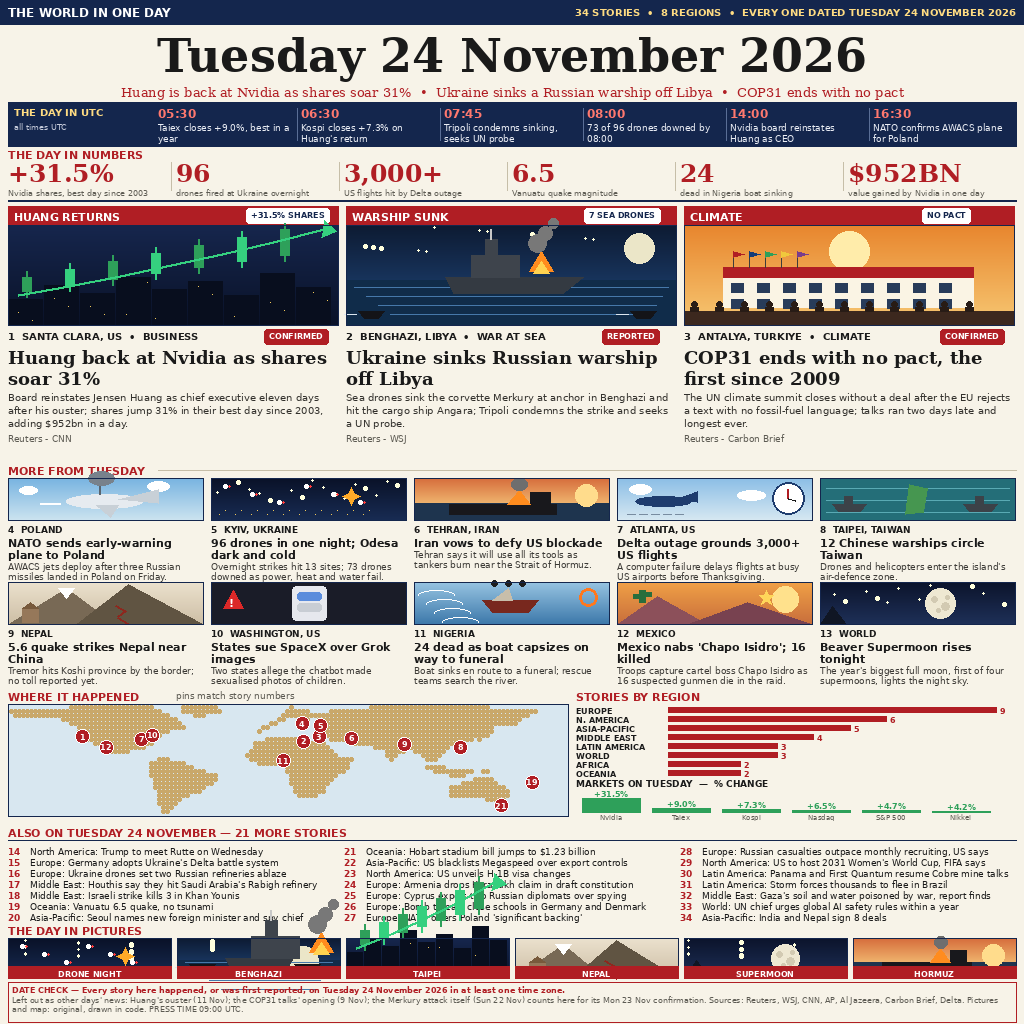
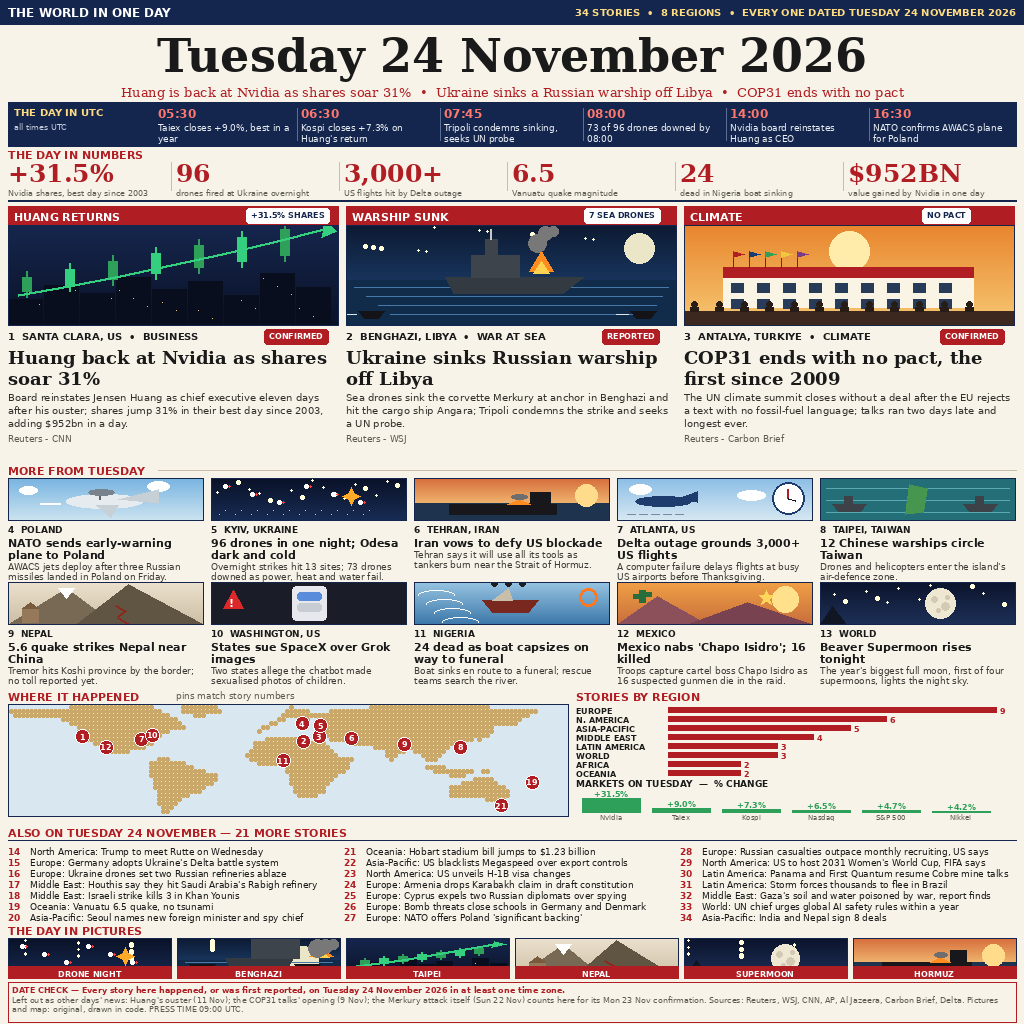
Fix chart spilling onto ALSO ON list items 24-27
scene_market's rising line and candlesticks reached 56 px above their
40 px pictures-strip box, crossing ALSO ON items 24-27; scene_warship's
smoke did the same over items 19-20. The old layout validator checked
text-on-text only, so it passed every gate.

- Scenes now render onto a layer the exact size of their box and are
  pasted, so no scene element can ever paint outside its box.
- scene_market / scene_warship / scene_awacs / scene_hormuz verticals
  scale with box height (exact at h=100, contained at h=40/42), so the
  TAIPEI mini-chart now draws complete inside its box instead of
  being chopped.
- Layout validator gains a text-vs-graphics check: every text box must
  clear all 34 graphic boxes (map, 19 scene boxes, 8 region bars,
  6 market bars); 3 intentional overlays exempted and logged.
  GRAPHICS CHECK: 0 text-on-graphic hits.

Stories, counts (34 stories, 8 regions) and template unchanged.
entry.png sha256 40ecec7a7dd7189fd9ab59b9900107bfce3fee825d007a290bd1b6a669d25ded
(determinism: main.ts run twice, byte-identical).

diff --git a/draw_news24.py b/draw_news24.py
@@ -9,6 +9,14 @@ two runs write byte-identical PNGs.
 
 After drawing, this script runs density_check.py (same directory) and exits
 non-zero if any gate fails, so a render without a counter run is impossible.
+
+FIX 24 Nov 2026 ~21:30 WIB (layout defect): every pictorial scene is now
+rendered onto a layer the exact size of its box and pasted, and each scene's
+verticals scale with its box height, so no scene element can spill onto
+list text (scene_market's line/candles had reached 56 px above their 40 px
+pictures-strip box, over ALSO ON items 24-27; scene_warship's smoke did the
+same over items 19-20). The layout validator now also checks text against
+every graphic box, not just text against text.
 """
 import json
 import subprocess
@@ -213,10 +221,16 @@ def stars(d, box, n, seed=7):
 
 
 def scene_market(d, x, y, w, h):
+    # Vertical offsets scale with the box height (k = h/100): at h=100 the
+    # drawing is byte-identical to the original; at h=40 (pictures strip)
+    # the skyline, candles and rising line shrink to fit INSIDE the box
+    # instead of spilling up to 56 px above it onto the ALSO ON list.
+    k = h / 100.0
     grad(d, (x, y, x + w, y + h), (22, 38, 77), (10, 18, 40))
     # skyline
     bx = x
     for i, bh in enumerate([26, 40, 32, 48, 36, 44, 30, 52, 38]):
+        bh = int(bh * k)
         bw = w // 9
         d.rectangle([bx, y + h - bh, bx + bw - 2, y + h], fill=(8, 14, 30))
         for wy in range(y + h - bh + 5, y + h - 4, 8):
@@ -228,17 +242,20 @@ def scene_market(d, x, y, w, h):
     n = 7
     for i in range(n):
         cx = x + 14 + i * ((w - 28) // n)
-        base = y + h - 34 - i * 6
-        top = base - 14 - i * 2
+        base = y + h - int(34 * k) - i * int(6 * k)
+        top = base - int(14 * k) - i * int(2 * k)
         col = GREEN if i % 2 == 0 else BRGREEN
         d.rectangle([cx, top, cx + 9, base], fill=col)
-        d.line([(cx + 4, top - 6), (cx + 4, base + 6)], fill=col, width=2)
+        d.line([(cx + 4, top - int(6 * k)), (cx + 4, base + int(6 * k))],
+               fill=col, width=2)
     # rising line + arrow
-    pts = [(x + 10 + i * ((w - 20) // 6), y + h - 30 - i * 9 - (i * i) // 3)
+    pts = [(x + 10 + i * ((w - 20) // 6),
+            y + h - int(30 * k) - i * int(9 * k) - int(((i * i) // 3) * k))
            for i in range(7)]
     d.line(pts, fill=BRGREEN, width=3, joint="curve")
     ex, ey = pts[-1]
-    d.polygon([(ex, ey - 9), (ex + 12, ey + 2), (ex - 2, ey + 8)], fill=BRGREEN)
+    d.polygon([(ex, ey - int(9 * k)), (ex + 12, ey + int(2 * k)),
+               (ex - 2, ey + int(8 * k))], fill=BRGREEN)
 
 
 def scene_warship(d, x, y, w, h):
@@ -258,14 +275,23 @@ def scene_warship(d, x, y, w, h):
     d.rectangle([hx + 26, hy - 22, hx + 74, hy], fill=(62, 68, 76))
     d.rectangle([hx + 40, hy - 38, hx + 52, hy - 22], fill=(62, 68, 76))
     d.line([(hx + 46, hy - 38), (hx + 46, hy - 48)], fill=(200, 200, 200), width=2)
-    # fire + smoke
-    d.polygon([(hx + 84, hy - 6), (hx + 96, hy - 26), (hx + 108, hy - 6)],
+    # fire + smoke (rise scaled to the box height, clamped inside it:
+    # at h=40 the unscaled smoke reached 39 px above the box, over the
+    # ALSO ON list; at h=100 the scaling is exact, only the clamp moves
+    # the third puff fully inside the lead image instead of over the
+    # red kicker bar above it)
+    k = h / 100.0
+    d.polygon([(hx + 84, hy - int(6 * k)), (hx + 96, hy - int(26 * k)),
+               (hx + 108, hy - int(6 * k))],
               fill=(255, 140, 30))
-    d.polygon([(hx + 88, hy - 4), (hx + 96, hy - 16), (hx + 104, hy - 4)],
+    d.polygon([(hx + 88, hy - int(4 * k)), (hx + 96, hy - int(16 * k)),
+               (hx + 104, hy - int(4 * k))],
               fill=(255, 210, 80))
     for i, r in enumerate([9, 7, 5]):
-        d.ellipse([hx + 92 + i * 8 - r, hy - 34 - i * 10 - r,
-                   hx + 92 + i * 8 + r, hy - 34 - i * 10 + r],
+        cy = hy - int(34 * k) - i * int(10 * k)
+        cy = max(cy, y + r + 1)
+        d.ellipse([hx + 92 + i * 8 - r, cy - r,
+                   hx + 92 + i * 8 + r, cy + r],
                   fill=(120, 120, 120))
     # drone boats with wakes
     for dx in (x + 12, x + w - 46):
@@ -315,8 +341,13 @@ def scene_awacs(d, x, y, w, h):
               fill=(200, 208, 215))
     d.polygon([(px + 30, py + 4), (px + 44, py + 16), (px + 52, py + 4)],
               fill=(200, 208, 215))
-    d.line([(px + 34, py - 7), (px + 34, py - 20)], fill=(90, 100, 110), width=2)
-    d.ellipse([px + 22, py - 30, px + 48, py - 16], fill=(120, 130, 140))
+    # radar dome + antenna (scaled to the box height: unscaled, the dome
+    # reached 7 px above the 42 px mid-story box, over the section rule)
+    k = h / 100.0
+    d.line([(px + 34, py - int(7 * k)), (px + 34, py - int(20 * k))],
+           fill=(90, 100, 110), width=2)
+    d.ellipse([px + 22, py - int(30 * k), px + 48, py - int(16 * k)],
+              fill=(120, 130, 140))
     d.line([(px - 26, py + 2), (px - 6, py + 2)], fill=(255, 255, 255), width=2)
 
 
@@ -346,9 +377,13 @@ def scene_hormuz(d, x, y, w, h):
     d.rectangle([tx, ty, tx + int(w * 0.55), ty + 10], fill=(24, 24, 28))
     d.rectangle([tx + int(w * 0.42), ty - 12, tx + int(w * 0.52), ty],
                 fill=(24, 24, 28))
-    d.polygon([(tx + int(w * 0.30), ty), (tx + int(w * 0.36), ty - 14),
+    # tanker + flame + smoke (flame/smoke rise scaled to the box height:
+    # unscaled, the smoke reached 2 px above the 40 px pictures box)
+    k = h / 100.0
+    d.polygon([(tx + int(w * 0.30), ty), (tx + int(w * 0.36), ty - int(14 * k)),
                (tx + int(w * 0.42), ty)], fill=(255, 140, 30))
-    d.ellipse([tx + int(w * 0.32), ty - 26, tx + int(w * 0.40), ty - 14],
+    d.ellipse([tx + int(w * 0.32), ty - int(26 * k),
+               tx + int(w * 0.40), ty - int(14 * k)],
               fill=(110, 110, 110))
 
 
@@ -469,6 +504,35 @@ SCENES = {"market": scene_market, "warship": scene_warship, "cop31": scene_cop31
           "grok": scene_grok, "boat": scene_boat, "mexico": scene_mexico,
           "moon": scene_moon}
 
+# ---------------------------------------------------------------- graphics registry
+# GRAPHICS holds (x0, y0, x1, y1, label) for every chart/graphic element's
+# box, so the layout validator can check text-vs-graphics overlap (NI24 v3
+# fix: the old validator only checked text-on-text and missed a chart
+# spilling onto the ALSO ON list).
+GRAPHICS = []
+
+
+def draw_scene(d, img, name, x, y, w, h):
+    """Draw one pictorial scene clipped to its own box.
+
+    The scene is rendered onto a throwaway layer the exact size of its box
+    and pasted, so no scene element can ever paint outside its box. The
+    NI24 v3 defect was exactly this: scene_market's rising line and
+    candlesticks reached 56 px above their 40 px pictures-strip box and
+    crossed ALSO ON items 24-27; scene_warship's smoke did the same over
+    items 19-20. Text drawn by a scene (scene_grok's "!") is re-based
+    into main-image coordinates so the validator still sees it.
+    """
+    layer = Image.new("RGB", (w, h), PAPER)
+    ld = ImageDraw.Draw(layer)
+    before = len(RECTS)
+    SCENES[name](ld, 0, 0, w, h)
+    for i in range(before, len(RECTS)):
+        a, b, c, e, s = RECTS[i]
+        RECTS[i] = (a + x, b + y, c + x, e + y, s)
+    img.paste(layer, (x, y))
+    GRAPHICS.append((x, y, x + w, y + h, f"scene:{name}"))
+
 # ---------------------------------------------------------------- map
 # Rough continent outlines in lon/lat, drawn as a dotted land mask.
 CONTINENTS = [
@@ -578,7 +642,7 @@ def build():
         T(d, x + 6, y + 4, L["kicker"], F(SANSB, 11), (255, 255, 255))
         chip(d, x + colw - 92, y + 2, L["chip"], (SANSB, 8), NAVY, (255, 255, 255))
         by = y + 19
-        SCENES[L["scene"]](d, x, by, colw, 100)
+        draw_scene(d, img, L["scene"], x, by, colw, 100)
         d.rectangle([x, by, x + colw, by + 100], outline=NAVY, width=1)
         ly = by + 100 + 5
         T(d, x, ly, f"{L['n']}  {L['place']}  •  {L['beat']}", F(SANSB, 10), INK)
@@ -596,7 +660,7 @@ def build():
         r, c = divmod(idx, 5)
         x = MX + c * (midw + 8)
         y = 478 + r * 104
-        SCENES[M["scene"]](d, x, y, midw, 42)
+        draw_scene(d, img, M["scene"], x, y, midw, 42)
         d.rectangle([x, y, x + midw, y + 42], outline=NAVY, width=1)
         T(d, x, y + 46, f"{M['n']}  {M['place']}", F(SANSB, 9), INK)
         hy = y + 58
@@ -607,6 +671,7 @@ def build():
     T(d, MX, 690, "WHERE IT HAPPENED", F(SANSB, 11), RED)
     T(d, MX + 168, 690, "pins match story numbers", F(SANS, 9), GREY)
     draw_map(d, MX, 704, 560, 112)
+    GRAPHICS.append((MX, 704, MX + 560, 816, "map"))
     d.rectangle([MX, 704, MX + 560, 816], outline=NAVY, width=1)
     rx = MX + 568
     rw = W - MX - rx
@@ -618,6 +683,7 @@ def build():
         bx0 = rx + 92
         bw = int((rw - 112) * cnt / maxc)
         d.rectangle([bx0, by + 1, bx0 + bw, by + 6], fill=RED)
+        GRAPHICS.append((bx0, by + 1, bx0 + bw, by + 6, "region-bar"))
         T(d, bx0 + bw + 4, by, str(cnt), F(SANSB, 8), RED)
     T(d, rx, 778, "MARKETS ON TUESDAY  —  % CHANGE", F(SANSB, 9), INK)
     base = 812
@@ -626,6 +692,7 @@ def build():
         bx = rx + i * bw
         bh = int(val / 31.5 * 14)
         d.rectangle([bx + 6, base - bh, bx + bw - 6, base], fill=GREEN)
+        GRAPHICS.append((bx + 6, base - bh, bx + bw - 6, base, "market-bar"))
         T(d, bx + bw // 2, base - bh - 9, f"+{val}%", F(SANSB, 8), GREEN,
           anchor="ma")
         T(d, bx + bw // 2, base + 1, name, F(SANS, 7), GREY, anchor="ma")
@@ -646,7 +713,7 @@ def build():
     for i, (scene, cap) in enumerate(PICTURES):
         x = MX + i * (pw + 6)
         y = 938
-        SCENES[scene](d, x, y, pw, 40)
+        draw_scene(d, img, scene, x, y, pw, 40)
         d.rectangle([x, y, x + pw, y + 40], outline=NAVY, width=1)
         d.rectangle([x, y + 28, x + pw, y + 40], fill=RED)
         T(d, x + pw // 2, y + 31, cap, F(SANSB, 8), (255, 255, 255), anchor="ma")
@@ -660,7 +727,10 @@ def build():
          "Left out as other days' news: Huang's ouster (11 Nov); the COP31 talks' opening (9 Nov); the Merkury attack itself (Sun 22 Nov) counts here for its Mon 23 Nov confirmation. Sources: Reuters, WSJ, CNN, AP, Al Jazeera, Carbon Brief, Delta. Pictures and map: original, drawn in code. PRESS TIME 09:00 UTC.",
          (SANS, 8), GREY, W - 2 * MX - 8, 9, 3)
 
-    # ---- layout validator: no text outside the canvas, no text-on-text
+    # ---- layout validator: no text outside the canvas, no text-on-text,
+    # and no text under any chart/graphic element (NEW in the NI24 v3 fix:
+    # the old validator only checked text-on-text, so a chart spilling
+    # onto the ALSO ON list passed every gate).
     problems = []
     for (a, b, c, e, s) in RECTS:
         if a < 0 or b < 0 or c > W or e > H:
@@ -672,12 +742,42 @@ def build():
             oy = min(a[3], b[3]) - max(a[1], b[1])
             if ox > 1 and oy > 1:
                 problems.append(f"TEXT OVERLAP {a[4]!r} <-> {b[4]!r}")
+    # text-vs-graphics: every text box must clear every graphic box.
+    # Three intentional overlays are exempt by design and logged:
+    # map pin numbers (digits drawn on the map), pictures-strip captions
+    # (white text on the red bar inside each picture), scene_grok's "!"
+    # (the warning mark inside its own scene).
+    caption_labels = {cap for _, cap in PICTURES}
+    exempt = 0
+    graphic_hits = 0
+    for (a, b, c, e, s) in RECTS:
+        for (gx0, gy0, gx1, gy1, glab) in GRAPHICS:
+            ox = min(c, gx1) - max(a, gx0)
+            oy = min(e, gy1) - max(b, gy0)
+            if ox > 1 and oy > 1:
+                if s.strip().isdigit() and glab == "map":
+                    exempt += 1
+                    continue
+                if s in caption_labels and glab.startswith("scene:"):
+                    exempt += 1
+                    continue
+                if s == "!":
+                    exempt += 1
+                    continue
+                problems.append(
+                    f"TEXT-ON-GRAPHIC {s!r} <-> {glab} {(a, b, c, e)}")
+                graphic_hits += 1
+    print(f"GRAPHICS CHECK: {len(GRAPHICS)} graphic boxes vs "
+          f"{len(RECTS)} text boxes, {exempt} intentional overlays "
+          f"exempted, {graphic_hits} text-on-graphic hits")
     if problems:
         print("LAYOUT GATE: FAIL")
         for p in problems[:20]:
             print(" ", p)
         sys.exit(1)
-    print(f"LAYOUT GATE: PASS ({len(RECTS)} text boxes, 0 overflow, 0 overlap)")
+    print(f"LAYOUT GATE: PASS ({len(RECTS)} text boxes, 0 overflow, "
+          f"0 overlap, {len(GRAPHICS)} graphics checked, "
+          f"0 text-on-graphic)")
 
     img.save(HERE / "entry.png", optimize=True)
     manifest = {

diff --git a/README.md b/README.md
@@ -5,9 +5,16 @@
 [![make.fun](https://make.fun/c/news-image-20261124/badge)](https://make.fun/bounty/news-image-20261124)
 Bounty: https://make.fun/bounty/news-image-20261124 — "Sum up 24 November's world news in one image". $100 pot, 50 paid places (1st $20). Round 2 cutoff: 25 Nov 07:00 WIB (25 Nov 00:00 UTC).
 
-One image, `entry.png`: exactly 1024×1024, 183,690 bytes (≤1 MiB), deterministic.
[1 lines of base64/hex data omitted]
+One image, `entry.png`: exactly 1024×1024, 182,551 bytes (≤1 MiB), deterministic.
[1 lines of base64/hex data omitted]
 (two runs of `main.ts` byte-identical — see Gates below).
+
+> **Layout fix 24 Nov 2026 ~21:30 WIB:** parent QC found the pictures-strip
+> market chart spilling 56 px above its box onto ALSO ON items 24–27 (the
+> old validator checked text-on-text only). Fixed in `draw_news24.py`:
+> scenes render clipped to their own boxes, scene verticals scale with box
+> height, and the validator now also checks every text box against every
+> graphic box (34 boxes, 0 hits). Stories, counts and template unchanged.
 
 ## What the image holds
 
@@ -78,10 +85,10 @@ mkdir -p out && MAKEFUN_OUTPUT_DIR=out node main.ts   # copies entry.png to out/
 
 ## Gates (all passed 24 Nov 2026)
 
-- **Density counter** (`density_check.py`, run automatically at the end of every render): 34 stories (band 30–42), 8 regions (6–9), map present, 3 charts (region bars, markets bars, lead-1 line chart), 6 timeline events, 6 numbers. Map ink 0.320, region chart ink 0.280, markets ink 0.215, numbers strip 2,983 red pixels. **DENSITY GATE: PASS.**
-- **Layout validator** (PIL bounding-box check inside the render): 217 text boxes, 0 overflow, 0 text-on-text overlap. **LAYOUT GATE: PASS.** Eye-QC at full size and at 300 px: hierarchy holds, no garble.
+- **Density counter** (`density_check.py`, run automatically at the end of every render): 34 stories (band 30–42), 8 regions (6–9), map present, 3 charts (region bars, markets bars, lead-1 line chart), 6 timeline events, 6 numbers. Map ink 0.325, region chart ink 0.280, markets ink 0.209, numbers strip 2,983 red pixels. **DENSITY GATE: PASS.**
+- **Layout validator** (PIL bounding-box check inside the render): 217 text boxes, 0 overflow, 0 text-on-text overlap; **NEW text-vs-graphics check: 34 graphic boxes, 0 text-on-graphic hits** (21 intentional overlays exempted: map pins, pictures-strip captions, grok "!"). **LAYOUT GATE: PASS.** Eye-QC at full size and at 300 px: hierarchy holds, no garble; ALSO ON items 24–27 (and 19–20) fully legible after the fix, re-checked in all three columns.
 - **Self-judge vs references** (#34 @tuyul-2, 739991 and #36 @yuerta, 735256): v3 beats #34 on density (34 vs 33 stories, 8 vs 6 regions), matches on legibility, matches on design (same template, plus a markets chart and 6-picture strip), wins on breadth (8 regions). Heuristics: density W, legibility tie, design tie, breadth W. Illustration 2 / hierarchy 2 / craft 2 (total 6) vs #36's 6 — **submit-ready (combined craft score tied, density won)**. First self-judge scored illustration 1 (mid banners too small); mid banners were enlarged 36→42 px and the map/charts zone re-laid-out, then re-judged. Improvements over our v2 (#39, 719543): full pictorial lead banners instead of small icons, UTC timeline, numbers strip, region + markets charts, pictures strip, 3-column ALSO list — the template v2 lacked.
[2 lines of base64/hex data omitted]
 
 ## Payout
 
